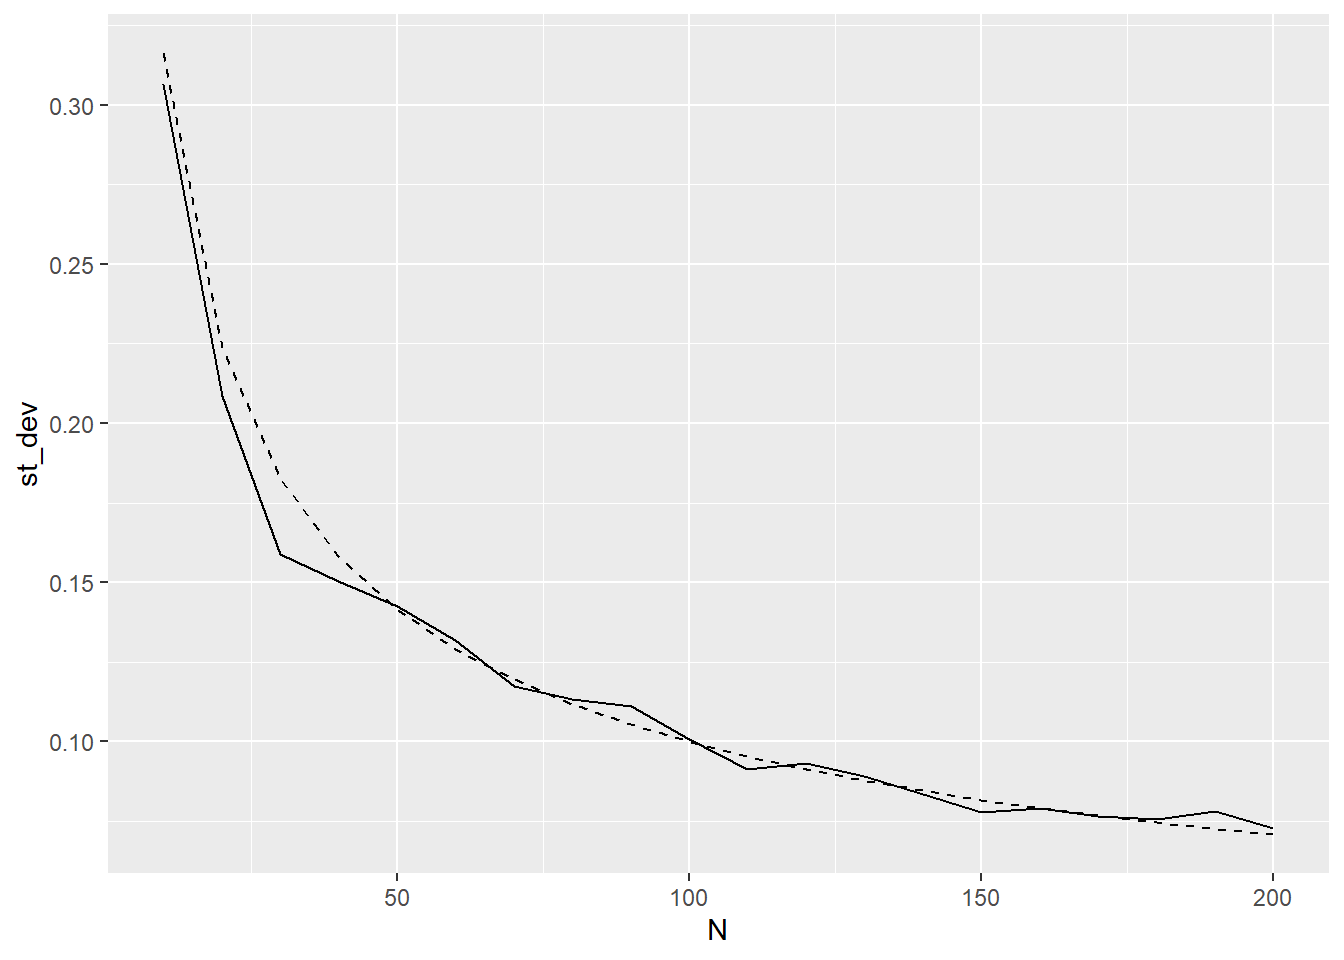
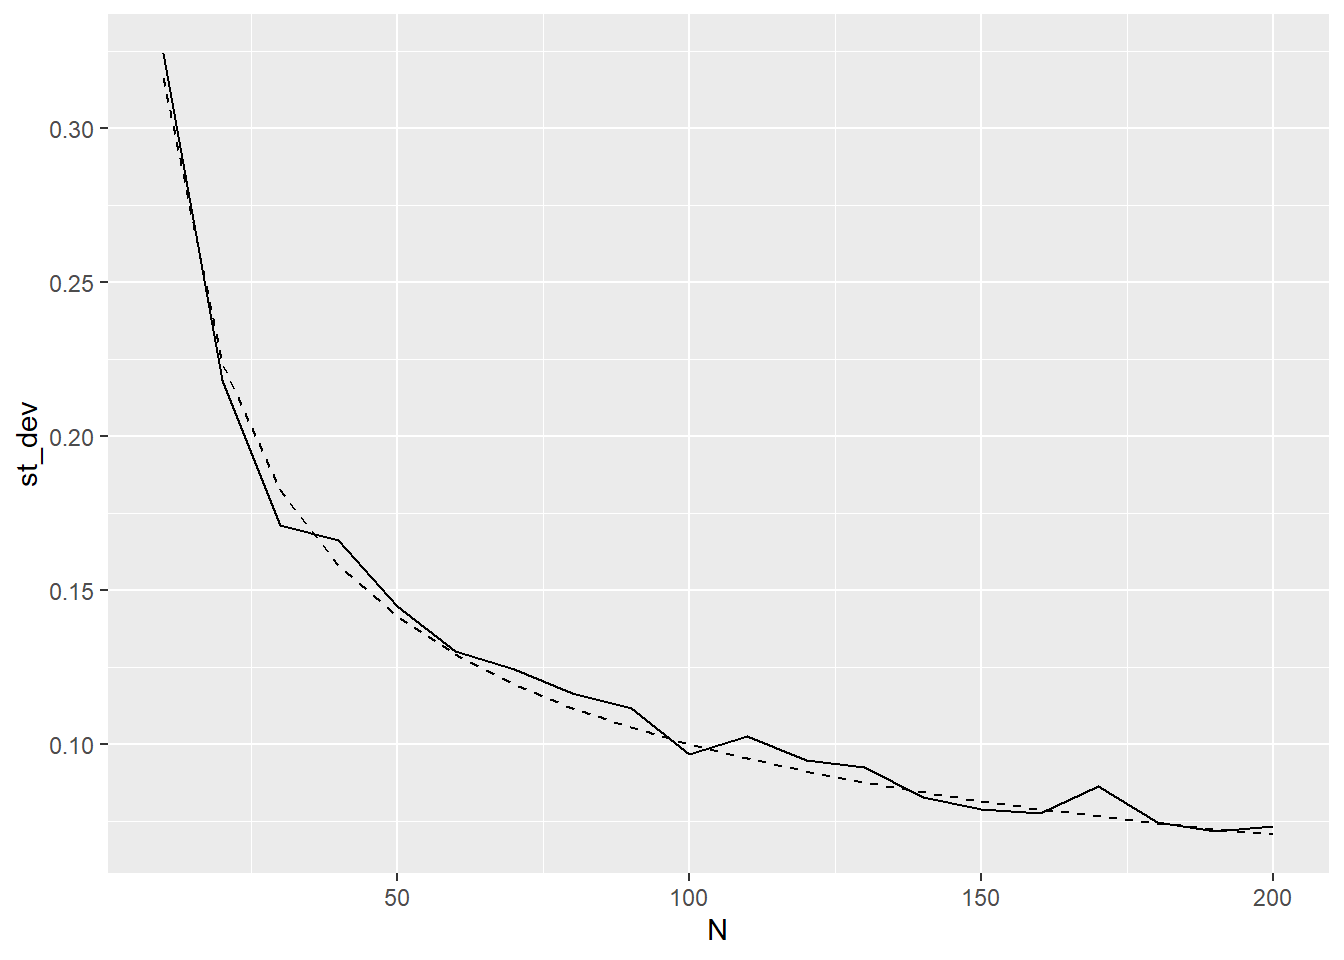
updated many-models

diff --git a/docs/07-iterations.html b/docs/07-iterations.html
@@ -394,23 +394,23 @@ pre > code.sourceCode > span > a:first-child::before { text-decoration: underlin
 <div class="cell">
 <div class="sourceCode cell-code" id="cb4"><pre class="sourceCode r code-with-copy"><code class="sourceCode r"><span id="cb4-1"><a href="#cb4-1" aria-hidden="true" tabindex="-1"></a><span class="fu">median</span>(df<span class="sc">$</span>a) </span></code><button title="Copy to Clipboard" class="code-copy-button"><i class="bi"></i></button></pre></div>
 <div class="cell-output cell-output-stdout">
-<pre><code>[1] -0.4584541</code></pre>
+<pre><code>[1] 0.1616716</code></pre>
 </div>
 <div class="sourceCode cell-code" id="cb6"><pre class="sourceCode r code-with-copy"><code class="sourceCode r"><span id="cb6-1"><a href="#cb6-1" aria-hidden="true" tabindex="-1"></a><span class="fu">median</span>(df<span class="sc">$</span>b) </span></code><button title="Copy to Clipboard" class="code-copy-button"><i class="bi"></i></button></pre></div>
 <div class="cell-output cell-output-stdout">
-<pre><code>[1] -0.3561454</code></pre>
+<pre><code>[1] -0.2440021</code></pre>
 </div>
 <div class="sourceCode cell-code" id="cb8"><pre class="sourceCode r code-with-copy"><code class="sourceCode r"><span id="cb8-1"><a href="#cb8-1" aria-hidden="true" tabindex="-1"></a><span class="fu">median</span>(df<span class="sc">$</span>c) </span></code><button title="Copy to Clipboard" class="code-copy-button"><i class="bi"></i></button></pre></div>
 <div class="cell-output cell-output-stdout">
-<pre><code>[1] -0.5727684</code></pre>
+<pre><code>[1] -0.04535087</code></pre>
 </div>
 <div class="sourceCode cell-code" id="cb10"><pre class="sourceCode r code-with-copy"><code class="sourceCode r"><span id="cb10-1"><a href="#cb10-1" aria-hidden="true" tabindex="-1"></a><span class="fu">median</span>(df<span class="sc">$</span>d) </span></code><button title="Copy to Clipboard" class="code-copy-button"><i class="bi"></i></button></pre></div>
 <div class="cell-output cell-output-stdout">
-<pre><code>[1] -0.5410255</code></pre>
+<pre><code>[1] -0.3153951</code></pre>
 </div>
 <div class="sourceCode cell-code" id="cb12"><pre class="sourceCode r code-with-copy"><code class="sourceCode r"><span id="cb12-1"><a href="#cb12-1" aria-hidden="true" tabindex="-1"></a><span class="fu">median</span>(df<span class="sc">$</span>e)</span></code><button title="Copy to Clipboard" class="code-copy-button"><i class="bi"></i></button></pre></div>
 <div class="cell-output cell-output-stdout">
-<pre><code>[1] 0.3502155</code></pre>
+<pre><code>[1] 0.05967607</code></pre>
 </div>
 </div>
 <p>In addition to being verbose, we would need to make changes to these lines if we were to add or subtract columns to our data frame. And further, if we wanted different metrics (e.g.&nbsp;column means as well as medians), we would have to write even more code.</p>
@@ -433,15 +433,15 @@ pre > code.sourceCode > span > a:first-child::before { text-decoration: underlin
 <div class="cell">
 <div class="sourceCode cell-code" id="cb15"><pre class="sourceCode r code-with-copy"><code class="sourceCode r"><span id="cb15-1"><a href="#cb15-1" aria-hidden="true" tabindex="-1"></a><span class="fu">col_summary</span>(df, mean)</span></code><button title="Copy to Clipboard" class="code-copy-button"><i class="bi"></i></button></pre></div>
 <div class="cell-output cell-output-stdout">
-<pre><code>[1] -0.3622177 -0.3777316 -0.3786779 -0.4984573  0.0894613</code></pre>
+<pre><code>[1]  0.232089595 -0.035271143  0.007910764 -0.055260713  0.120130657</code></pre>
 </div>
 <div class="sourceCode cell-code" id="cb17"><pre class="sourceCode r code-with-copy"><code class="sourceCode r"><span id="cb17-1"><a href="#cb17-1" aria-hidden="true" tabindex="-1"></a><span class="fu">col_summary</span>(df, median)</span></code><button title="Copy to Clipboard" class="code-copy-button"><i class="bi"></i></button></pre></div>
 <div class="cell-output cell-output-stdout">
-<pre><code>[1] -0.4584541 -0.3561454 -0.5727684 -0.5410255  0.3502155</code></pre>
+<pre><code>[1]  0.16167160 -0.24400210 -0.04535087 -0.31539509  0.05967607</code></pre>
 </div>
 <div class="sourceCode cell-code" id="cb19"><pre class="sourceCode r code-with-copy"><code class="sourceCode r"><span id="cb19-1"><a href="#cb19-1" aria-hidden="true" tabindex="-1"></a><span class="fu">col_summary</span>(df, sd)</span></code><button title="Copy to Clipboard" class="code-copy-button"><i class="bi"></i></button></pre></div>
 <div class="cell-output cell-output-stdout">
-<pre><code>[1] 0.8740333 1.0758489 0.8945480 0.9793898 0.7389910</code></pre>
+<pre><code>[1] 1.2120381 1.1844983 0.5937459 0.8954716 1.1554732</code></pre>
 </div>
 </div>
 <p>With this method we can get summaries of all columns in the data frame, without needing to changing these lines if we add or subtract columns.</p>
@@ -453,19 +453,19 @@ pre > code.sourceCode > span > a:first-child::before { text-decoration: underlin
 <div class="sourceCode cell-code" id="cb21"><pre class="sourceCode r code-with-copy"><code class="sourceCode r"><span id="cb21-1"><a href="#cb21-1" aria-hidden="true" tabindex="-1"></a><span class="fu">map</span>(df, mean)</span></code><button title="Copy to Clipboard" class="code-copy-button"><i class="bi"></i></button></pre></div>
 <div class="cell-output cell-output-stdout">
 <pre><code>$a
-[1] -0.3622177
+[1] 0.2320896
 
 $b
-[1] -0.3777316
+[1] -0.03527114
 
 $c
-[1] -0.3786779
+[1] 0.007910764
 
 $d
-[1] -0.4984573
+[1] -0.05526071
 
 $e
-[1] 0.0894613</code></pre>
+[1] 0.1201307</code></pre>
 </div>
 </div>
 <p>The output from map-functions is a list. If you expect the return from the <code>map</code> call to be boolan, integer, double or character vectors, you can ensure you do indeed get such a vector in return by using <code>map_lgl, map_int, map_dbl</code> or <code>map_chr</code>-respectively.</p>
@@ -476,9 +476,9 @@ $e
 <span id="cb23-3"><a href="#cb23-3" aria-hidden="true" tabindex="-1"></a>  <span class="fu">bind_cols</span>()</span></code><button title="Copy to Clipboard" class="code-copy-button"><i class="bi"></i></button></pre></div>
 <div class="cell-output cell-output-stdout">
 <pre><code># A tibble: 1 × 5
-       a      b      c      d     e
-   &lt;dbl&gt;  &lt;dbl&gt;  &lt;dbl&gt;  &lt;dbl&gt; &lt;dbl&gt;
-1 -0.349 -0.376 -0.423 -0.497 0.180</code></pre>
+      a       b        c      d     e
+  &lt;dbl&gt;   &lt;dbl&gt;    &lt;dbl&gt;  &lt;dbl&gt; &lt;dbl&gt;
+1 0.165 -0.0154 -0.00131 -0.160 0.120</code></pre>
 </div>
 </div>
 <p>When we call <code>map</code>, we need to supply a <strong>single</strong> function that will be applied to each of the objects we are iterating over. If we want to apply multiple functions at the same time, we could store this as a new function, and call this once. However, we can also call an anonymous function (see also the “Function” chapter of the compendium”):</p>
@@ -492,9 +492,9 @@ $e
 <span id="cb25-7"><a href="#cb25-7" aria-hidden="true" tabindex="-1"></a>  <span class="fu">bind_cols</span>()</span></code><button title="Copy to Clipboard" class="code-copy-button"><i class="bi"></i></button></pre></div>
 <div class="cell-output cell-output-stdout">
 <pre><code># A tibble: 1 × 5
-       a      b      c      d     e
-   &lt;dbl&gt;  &lt;dbl&gt;  &lt;dbl&gt;  &lt;dbl&gt; &lt;dbl&gt;
-1 -0.414 -0.351 -0.423 -0.509 0.121</code></pre>
+      a       b      c       d     e
+  &lt;dbl&gt;   &lt;dbl&gt;  &lt;dbl&gt;   &lt;dbl&gt; &lt;dbl&gt;
+1 0.191 -0.0298 0.0133 -0.0617 0.104</code></pre>
 </div>
 </div>
 <p>With map functions we can do a lot more interesting stuff than making column summaries. Run the code below yourself line by line. In the example below, we</p>
@@ -596,13 +596,13 @@ Caused by error:
 <span id="cb37-3"><a href="#cb37-3" aria-hidden="true" tabindex="-1"></a><span class="fu">map2</span>(mu,sigma,rnorm,<span class="at">n=</span><span class="dv">5</span>)</span></code><button title="Copy to Clipboard" class="code-copy-button"><i class="bi"></i></button></pre></div>
 <div class="cell-output cell-output-stdout">
 <pre><code>[[1]]
-[1]  -9999.677 -10003.084 -10000.605  -9999.157 -10000.377
+[1]  -9999.087 -10000.750 -10000.991 -10000.633  -9998.447
 
 [[2]]
-[1]  3.879527  1.878195  7.092627 -3.496100  3.317957
+[1]  3.771634  2.072742  6.172401 -4.144708  2.154828
 
 [[3]]
-[1]  9998.202 10012.167  9990.237 10001.785  9991.840</code></pre>
+[1]  9991.951  9980.172  9994.918  9992.800 10019.074</code></pre>
 </div>
 </div>
 <p>We can also iterate over more than two lists simultaneously. The lists then need to be combined in a single list, and the names of each list must match the names of the arguments in the function we want to apply.</p>
@@ -617,17 +617,17 @@ Caused by error:
 <span id="cb39-8"><a href="#cb39-8" aria-hidden="true" tabindex="-1"></a>  <span class="fu">pmap</span>(rnorm)</span></code><button title="Copy to Clipboard" class="code-copy-button"><i class="bi"></i></button></pre></div>
 <div class="cell-output cell-output-stdout">
 <pre><code>[[1]]
-[1] -10002.09
+[1] -9999.5
 
 [[2]]
- [1] -0.8553480  0.9366360 -0.4950821  2.5837503 -6.9474872  3.5161338
- [7] -8.5047997 -3.9111232 -3.5250974  6.2800680
+ [1] -3.4642307 -3.3725867  2.8419466  0.1763047 -2.7098557 -2.5515407
+ [7] -3.3874443 -7.0137258 -0.1816498 -0.3456434
 
 [[3]]
- [1]  87.82904 108.84753  92.53013  99.89480  91.18119 104.65772 111.90717
- [8]  91.51976  84.79268  90.75745 104.61221 101.97341 100.39839  85.72613
-[15]  96.72461 103.07482 105.33388  97.37387  92.91584  97.21955  81.53775
-[22]  87.89177 100.34502 114.83682  74.11606</code></pre>
+ [1]  92.11387 107.61742  84.53438  96.98481 100.55640 117.77835  89.83487
+ [8]  84.12184 117.04366 106.26729  93.90142  92.43464  91.31199 101.45793
+[15]  94.70129  98.73269 114.50116 119.25859  93.72235 103.54083 110.62973
+[22]  91.28332 113.37760  96.44905  99.21649</code></pre>
 </div>
 </div>
 </section>

diff --git a/docs/assignment-04.html b/docs/assignment-04.html
@@ -386,30 +386,30 @@ Expand for some hints.
 <div class="cell">
 <div class="sourceCode cell-code" id="cb1"><pre class="sourceCode r code-with-copy"><code class="sourceCode r"><span id="cb1-1"><a href="#cb1-1" aria-hidden="true" tabindex="-1"></a><span class="fu">sim_norm</span>(<span class="at">N =</span> <span class="dv">10</span>)</span></code><button title="Copy to Clipboard" class="code-copy-button"><i class="bi"></i></button></pre></div>
 <div class="cell-output cell-output-stdout">
-<pre><code>[1] -0.100246</code></pre>
+<pre><code>[1] -0.4893784</code></pre>
 </div>
 <div class="sourceCode cell-code" id="cb3"><pre class="sourceCode r code-with-copy"><code class="sourceCode r"><span id="cb3-1"><a href="#cb3-1" aria-hidden="true" tabindex="-1"></a><span class="fu">sim_norm</span>(<span class="at">N =</span> <span class="dv">10</span>)</span></code><button title="Copy to Clipboard" class="code-copy-button"><i class="bi"></i></button></pre></div>
 <div class="cell-output cell-output-stdout">
-<pre><code>[1] 0.393992</code></pre>
+<pre><code>[1] 0.1453734</code></pre>
 </div>
 <div class="sourceCode cell-code" id="cb5"><pre class="sourceCode r code-with-copy"><code class="sourceCode r"><span id="cb5-1"><a href="#cb5-1" aria-hidden="true" tabindex="-1"></a><span class="fu">sim_norm</span>(<span class="at">N =</span> <span class="dv">10</span>)</span></code><button title="Copy to Clipboard" class="code-copy-button"><i class="bi"></i></button></pre></div>
 <div class="cell-output cell-output-stdout">
-<pre><code>[1] -0.1005949</code></pre>
+<pre><code>[1] 0.6591518</code></pre>
 </div>
 </div>
 <p>… or with a different value of the population mean:</p>
 <div class="cell">
 <div class="sourceCode cell-code" id="cb7"><pre class="sourceCode r code-with-copy"><code class="sourceCode r"><span id="cb7-1"><a href="#cb7-1" aria-hidden="true" tabindex="-1"></a><span class="fu">sim_norm</span>(<span class="at">N =</span> <span class="dv">10</span>, <span class="at">mu =</span> <span class="dv">15</span>)</span></code><button title="Copy to Clipboard" class="code-copy-button"><i class="bi"></i></button></pre></div>
 <div class="cell-output cell-output-stdout">
-<pre><code>[1] 15.08104</code></pre>
+<pre><code>[1] 14.98288</code></pre>
 </div>
 <div class="sourceCode cell-code" id="cb9"><pre class="sourceCode r code-with-copy"><code class="sourceCode r"><span id="cb9-1"><a href="#cb9-1" aria-hidden="true" tabindex="-1"></a><span class="fu">sim_norm</span>(<span class="at">N =</span> <span class="dv">10</span>, <span class="at">mu =</span> <span class="dv">15</span>)</span></code><button title="Copy to Clipboard" class="code-copy-button"><i class="bi"></i></button></pre></div>
 <div class="cell-output cell-output-stdout">
-<pre><code>[1] 14.61249</code></pre>
+<pre><code>[1] 15.12287</code></pre>
 </div>
 <div class="sourceCode cell-code" id="cb11"><pre class="sourceCode r code-with-copy"><code class="sourceCode r"><span id="cb11-1"><a href="#cb11-1" aria-hidden="true" tabindex="-1"></a><span class="fu">sim_norm</span>(<span class="at">N =</span> <span class="dv">10</span>, <span class="at">mu =</span> <span class="dv">15</span>)</span></code><button title="Copy to Clipboard" class="code-copy-button"><i class="bi"></i></button></pre></div>
 <div class="cell-output cell-output-stdout">
-<pre><code>[1] 14.66408</code></pre>
+<pre><code>[1] 15.07317</code></pre>
 </div>
 </div>
 </div>
@@ -444,10 +444,10 @@ Expand for some hints.
 <p>Using <code>N = 10</code> and <code>M = 20</code> should give something like this (however not with identical results because you will sample different numbers).</p>
 <div class="cell">
 <div class="cell-output cell-output-stdout">
-<pre><code> [1]  0.31773792 -0.24122384 -0.26780081  0.27168194  0.05248044 -0.11479728
- [7] -0.16482069 -0.27281190  0.42618503  0.19878230 -0.14034691 -0.49700652
-[13]  0.19743389  0.16627086 -0.25430947  0.53414585  0.08514730  0.01740824
-[19]  0.39806778  0.27897322</code></pre>
+<pre><code> [1]  0.16452190  0.34652547  0.23565328 -0.08964090  0.15019545 -0.28975003
+ [7]  0.10916718  0.48342388  0.37647294  0.06408561  0.02254396  0.26807496
+[13]  0.03454014  0.23209788 -0.01415957 -0.33483579  0.06549416 -0.82415836
+[19] -0.06982870 -0.03065985</code></pre>
 </div>
 </div>
 </div>
@@ -599,8 +599,7 @@ Expand for a hint
 <div class="sourceCode cell-code" id="cb17"><pre class="sourceCode r code-with-copy"><code class="sourceCode r"><span id="cb17-1"><a href="#cb17-1" aria-hidden="true" tabindex="-1"></a><span class="fu">library</span>(tweedie)</span>
 <span id="cb17-2"><a href="#cb17-2" aria-hidden="true" tabindex="-1"></a><span class="fu">rtweedie</span>(<span class="at">n =</span> <span class="dv">10</span>, <span class="at">mu =</span> <span class="dv">10000</span>, <span class="at">phi =</span> <span class="dv">1000</span>, <span class="at">power =</span> <span class="fl">1.9</span>)</span></code><button title="Copy to Clipboard" class="code-copy-button"><i class="bi"></i></button></pre></div>
 <div class="cell-output cell-output-stdout">
-<pre><code> [1]  0.0000  0.0000  0.0000  0.0000  0.0000 18.2891  0.0000  0.0000  0.0000
-[10]  0.0000</code></pre>
+<pre><code> [1] 0 0 0 0 0 0 0 0 0 0</code></pre>
 </div>
 </div>
 <p>Most likely you will observe 10 zeros, each of which belong to the majority of houses that do not burn down in a given year. If you do observe a non-zero, however, this would represent the total amount claimed by a single (unlucky) insurance holder that year.</p>

diff --git a/docs/10-many-models.html b/docs/10-many-models.html
@@ -315,7 +315,7 @@ ul.task-list li input[type="checkbox"] {
 <p>We will of course not in any way suggest that the algorithm</p>
 <pre><code>while(model not interesting) {keep looking}</code></pre>
 <p>is anything other than cheating. We will however explore the other extreme from conservative inferential regression model building: What if we fit all possible models? <em>Everything</em>. This may result in some interesting insights because we interpret the estimated models more like derived data points that can be analyzed statistically in their own right rather than the result of a model-building exercise.</p>
-<p>This lesson follows Chapter 25 of <a href="https://r4ds.had.co.nz/"><em>the first edition of</em> R for Data Science</a> (in the second edition, this chapter is taken out) by Hadley Wickham. In the video window at the bottom of this page we go through the main script file for this lesson. At the end of the video we also discuss the assignment questions for this week (and you will see that this video was not recorded this year, but the main content is the same).</p>
+<p>This lesson follows Chapter 25 of <a href="https://r4ds.had.co.nz/"><em>the first edition of</em> R for Data Science</a> (in the second edition, this chapter is taken out) by Hadley Wickham. In the video window at the bottom of this page we go through the main script file for this lesson. At the end of the video we also discuss the assignment questions for this week (and you will see that this video was not recorded this year, but the main content is the same). The script for the lesson is available in <a href="https://github.com/hotneim/ban400-lectures">this repository</a>.</p>
 <p>If you want to explore these ideas a bit more conceptually, you can read the paper <a href="https://www.nber.org/papers/w6252"><em>I just ran four million regressions</em></a> by Xavier X. Sala-i-Martin.</p>
 <div style="padding:60.95% 0 0 0;position:relative;">
 <iframe src="https://player.vimeo.com/video/642707682?badge=0&amp;autopause=0&amp;quality_selector=1&amp;progress_bar=1&amp;player_id=0&amp;app_id=58479" frameborder="0" allow="autoplay; fullscreen; picture-in-picture" style="position:absolute;top:0;left:0;width:100%;height:100%;" title="BAN400: Many models">
